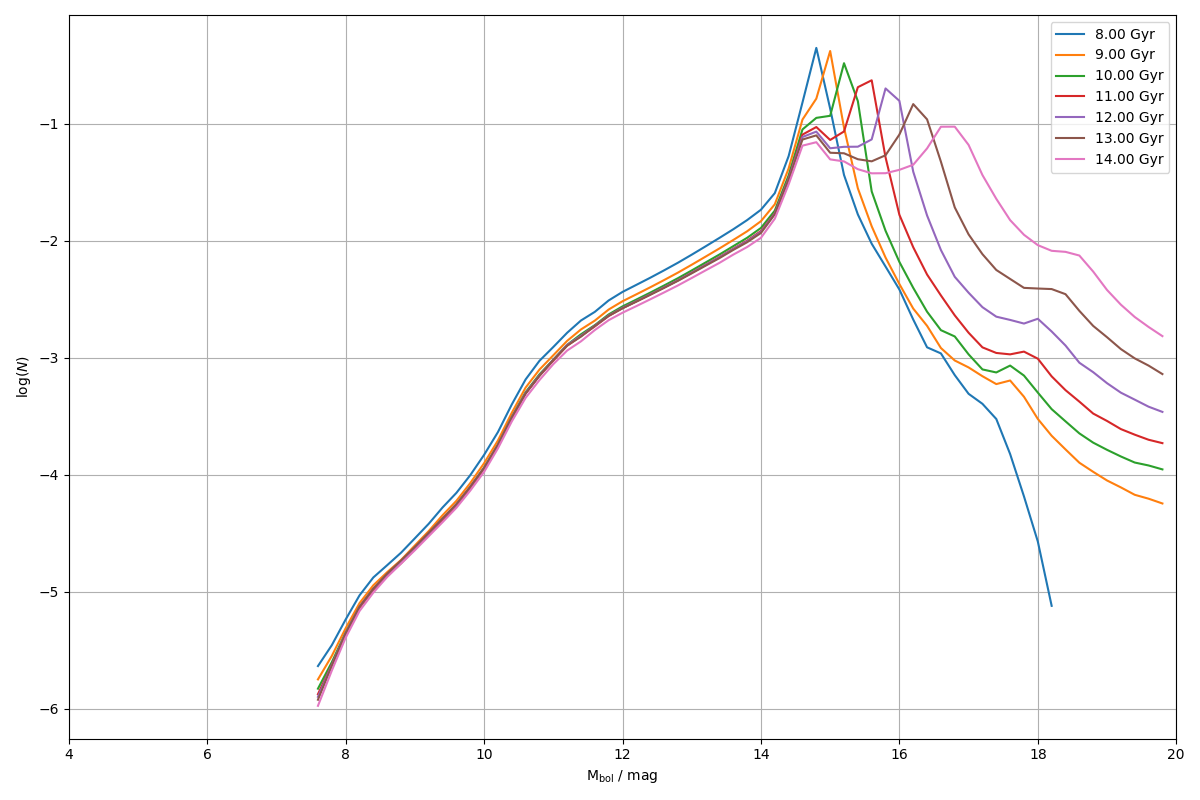
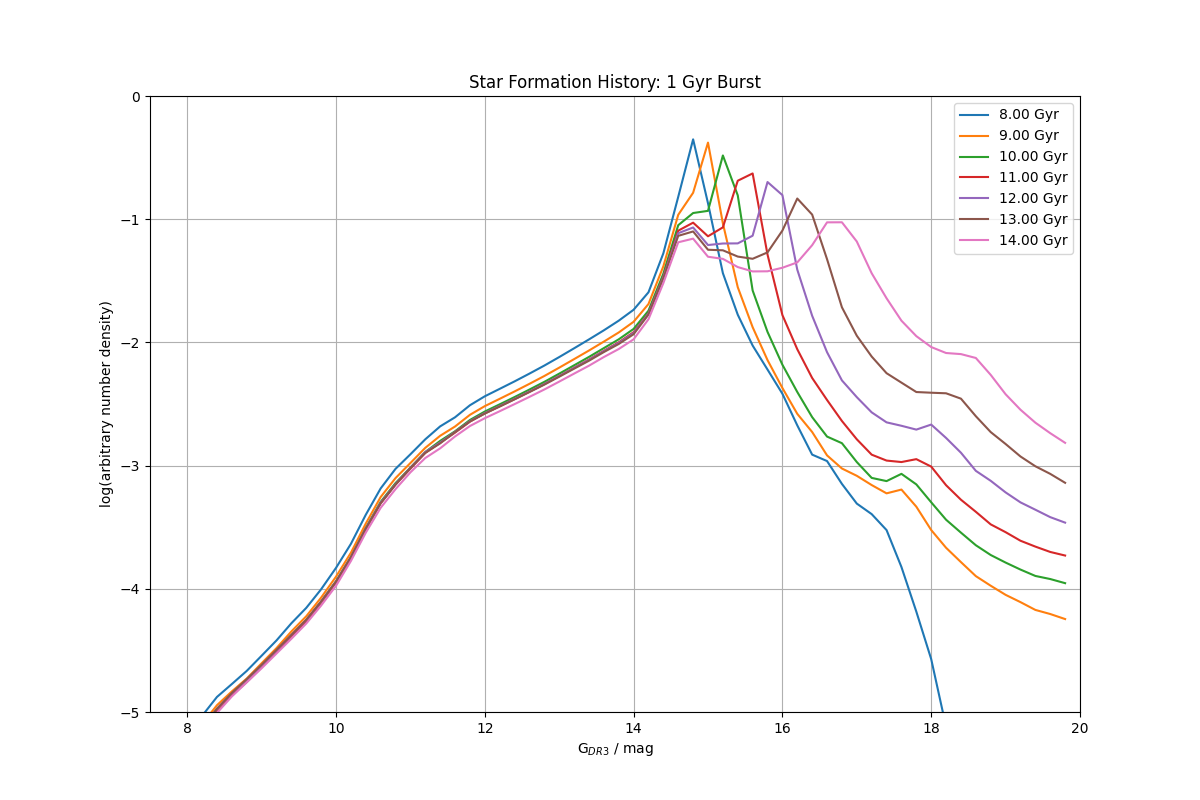
Added constant star formation scenario to the readme, as well as a cooling track.

diff --git a/README.md b/README.md
@@ -59,8 +59,16 @@ The brackets denote the core type/atmosphere type/mass range/other special prope
 4. MESA models
     1. Lauffer et al. 2018 -- H [CONe/DA+B/1.012-1.308]
 
+## An example set of WDLFs with constant star formation rate
+![alt text](https://github.com/cylammarco/WDLFBuilder/blob/main/constant_C16_C08_montreal_co_da_20_montreal_co_da_20_montreal_co_da_20.png?raw=true)
+
 ## An example set of WDLFs with 1 Gyr of star burst
 ![alt text](https://github.com/cylammarco/WDLFBuilder/blob/main/burst_C16_C08_montreal_co_da_20_montreal_co_da_20_montreal_co_da_20.png?raw=true)
 
-## An example set of WDLFs with 1 Gyr of halflife in the star formation rate
+## An example set of WDLFs with a mean lifetime of 3 Gyr in the star formation rate
 ![alt text](https://github.com/cylammarco/WDLFBuilder/blob/main/decay_C16_C08_montreal_co_da_20_montreal_co_da_20_montreal_co_da_20.png?raw=true)
+
+### Mapping to the synthetic photometry
+The cooling models only include the modelling of the bolometric lumninosity, the synthetic photometry is not usually provided. We have included the synthetic colours computed by the [Montreal group](http://www.astro.umontreal.ca/~bergeron/CoolingModels/). By default, it maps the (logg, Mbol) to Gaia G band (DR3).
+
+![alt text](https://github.com/cylammarco/WDLFBuilder/blob/main/DA_cooling_tracks.png?raw=true)
